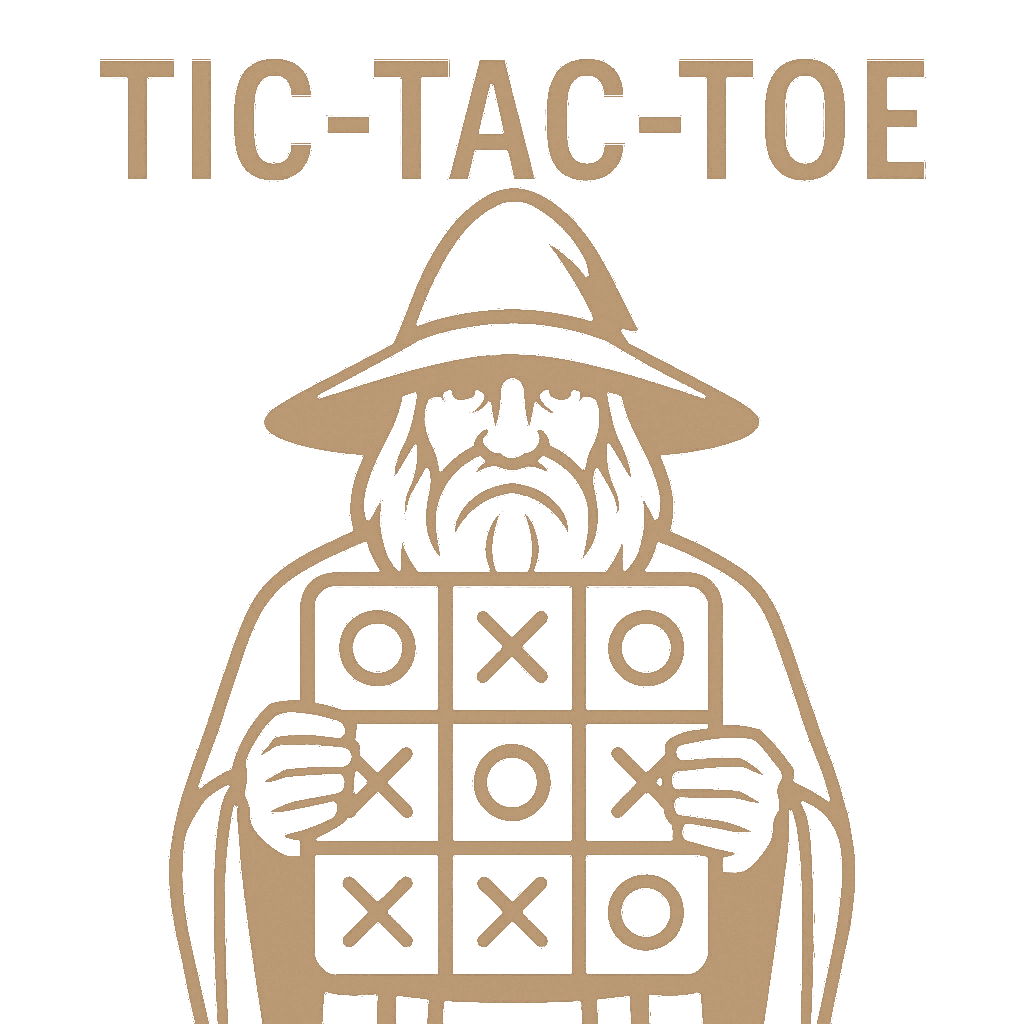
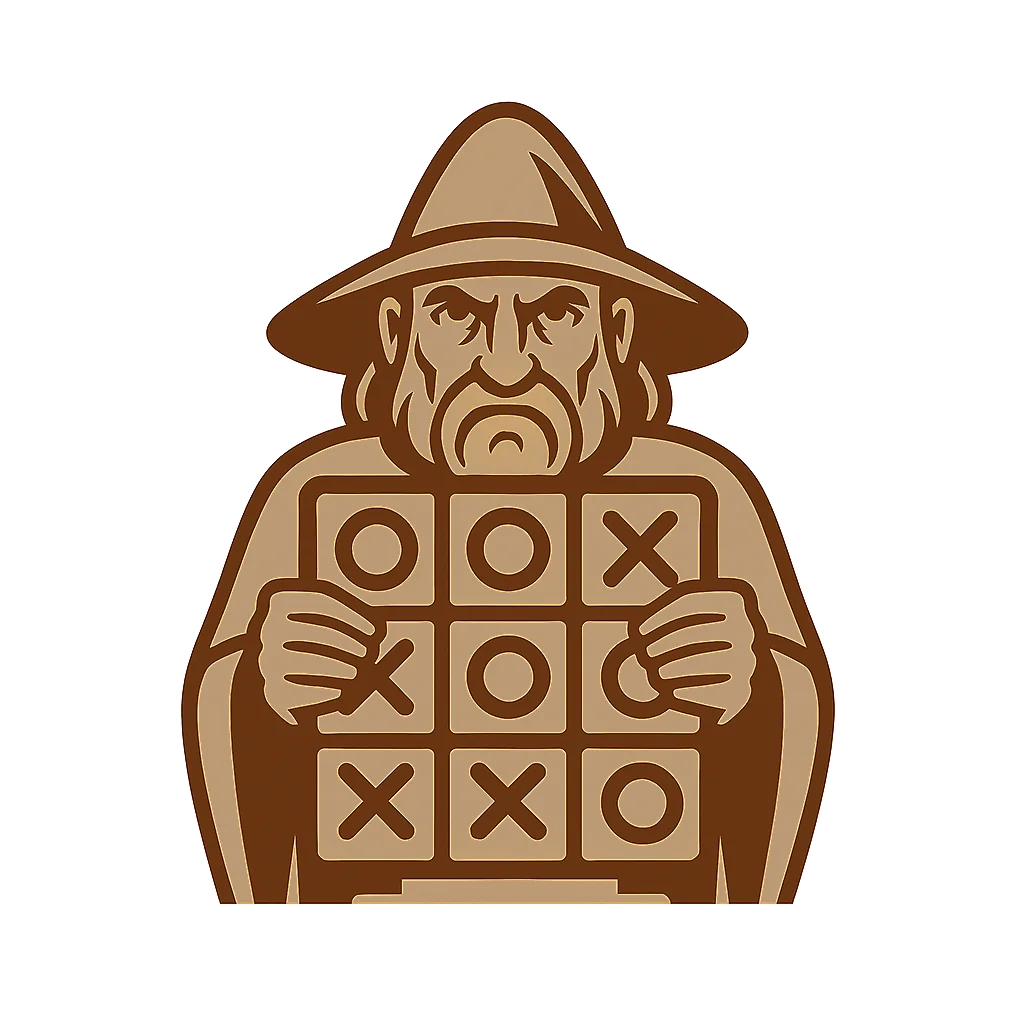
updaing theme

diff --git a/src/styles/sass/_global.scss b/src/styles/sass/_global.scss
@@ -175,7 +175,7 @@ body {
         .#{$identifier}-menu-item {
           font-size: 12px;
           img {
-            width: 45px;
+            width: 55px;
             height: auto;
           }
 
@@ -318,15 +318,17 @@ body {
   }
 
   .#{$identifier}-home {
-    &::before {
-      content: '';
-      position: absolute;
-      top: 0;
-      left: 0;
-      right: 0;
-      bottom: 0;
-      background-color: rgba(0, 0, 0, 0.4);
-      z-index: 0;
+    @media (min-width: 768px) {
+      &::before {
+        content: '';
+        position: absolute;
+        top: 0;
+        left: 0;
+        right: 0;
+        bottom: 0;
+        background-color: rgba(0, 0, 0, 0.4);
+        z-index: 0;
+      }
     }
 
     .#{$identifier}-dashboard-cards-wrapper {
@@ -549,7 +551,6 @@ body {
 
           @media (max-width: 768px) {
             grid-template-columns: repeat(2, 1fr);
-            padding: 24px 0px 0px;
             margin-top: 0px;
           }
         }

diff --git a/src/app/Home.js b/src/app/Home.js
@@ -237,7 +237,7 @@ export default function Home() {
                 <GameCards
                   key={index}
                   target={game.url}
-                  imgSrc={`${game.imgSrc}.png`}
+                  imgSrc={`${game.imgSrc}.webp`}
                   alt={game.alt}
                   title={game.title}
                 />
@@ -254,7 +254,7 @@ export default function Home() {
                 <GameCards
                   key={index}
                   target={game.url}
-                  imgSrc={`${game.imgSrc}.png`}
+                  imgSrc={`${game.imgSrc}.webp`}
                   alt={game.alt}
                   title={game.title}
                 />

diff --git a/src/styles/sass/_variables.scss b/src/styles/sass/_variables.scss
@@ -4,7 +4,7 @@ $primary-color-hover: #5c5e3d !default;
 $dark-overlay: rgba(8, 8, 8, 0.6) !default;
 $light-overlay: #bf9f7f71 !default;
 $light-overlay-hover: #5c5e3d !default;
-$secondary-color: #7b3e19 !default;
+$secondary-color: #683816 !default;
 $primary-color-faded: #ff7f5075 !default;
 $background-color: #f4f4f4 !default;
 $text-color: #333 !default;
